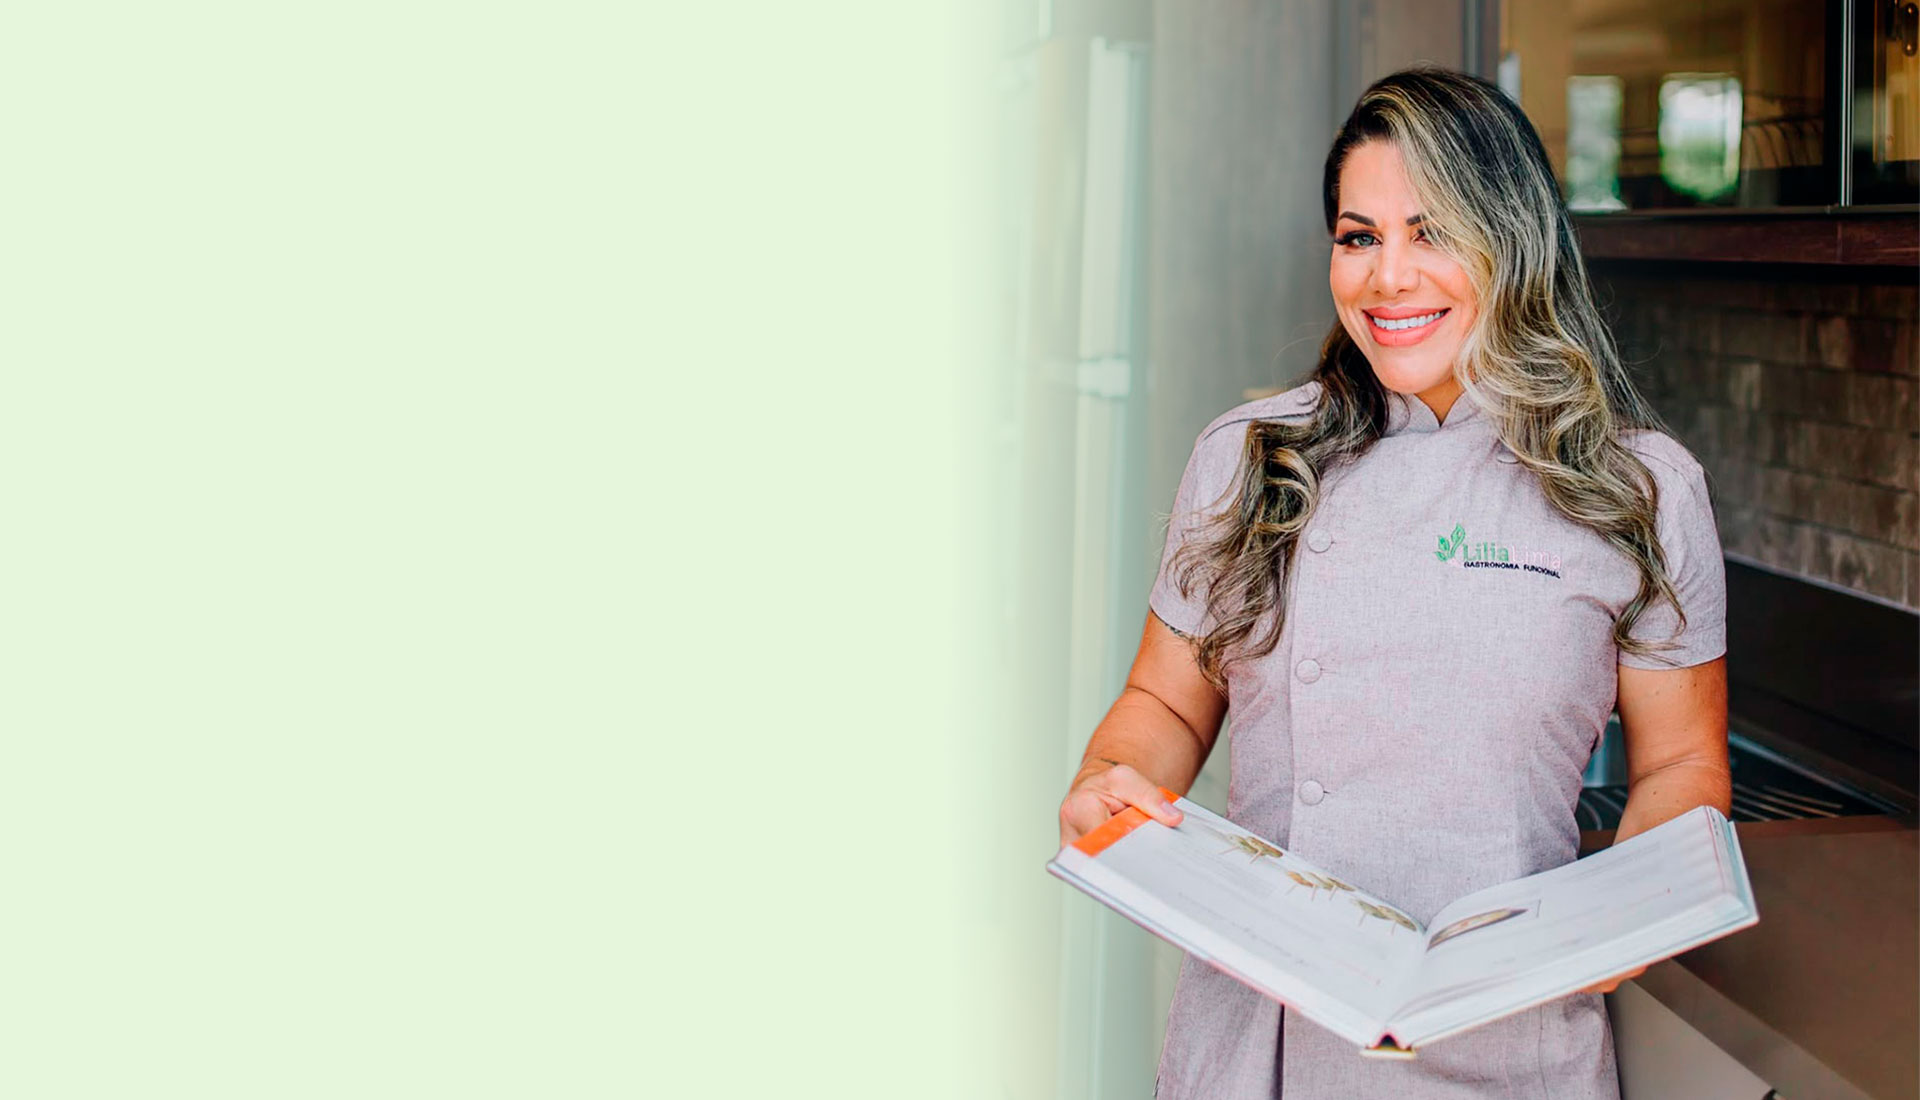
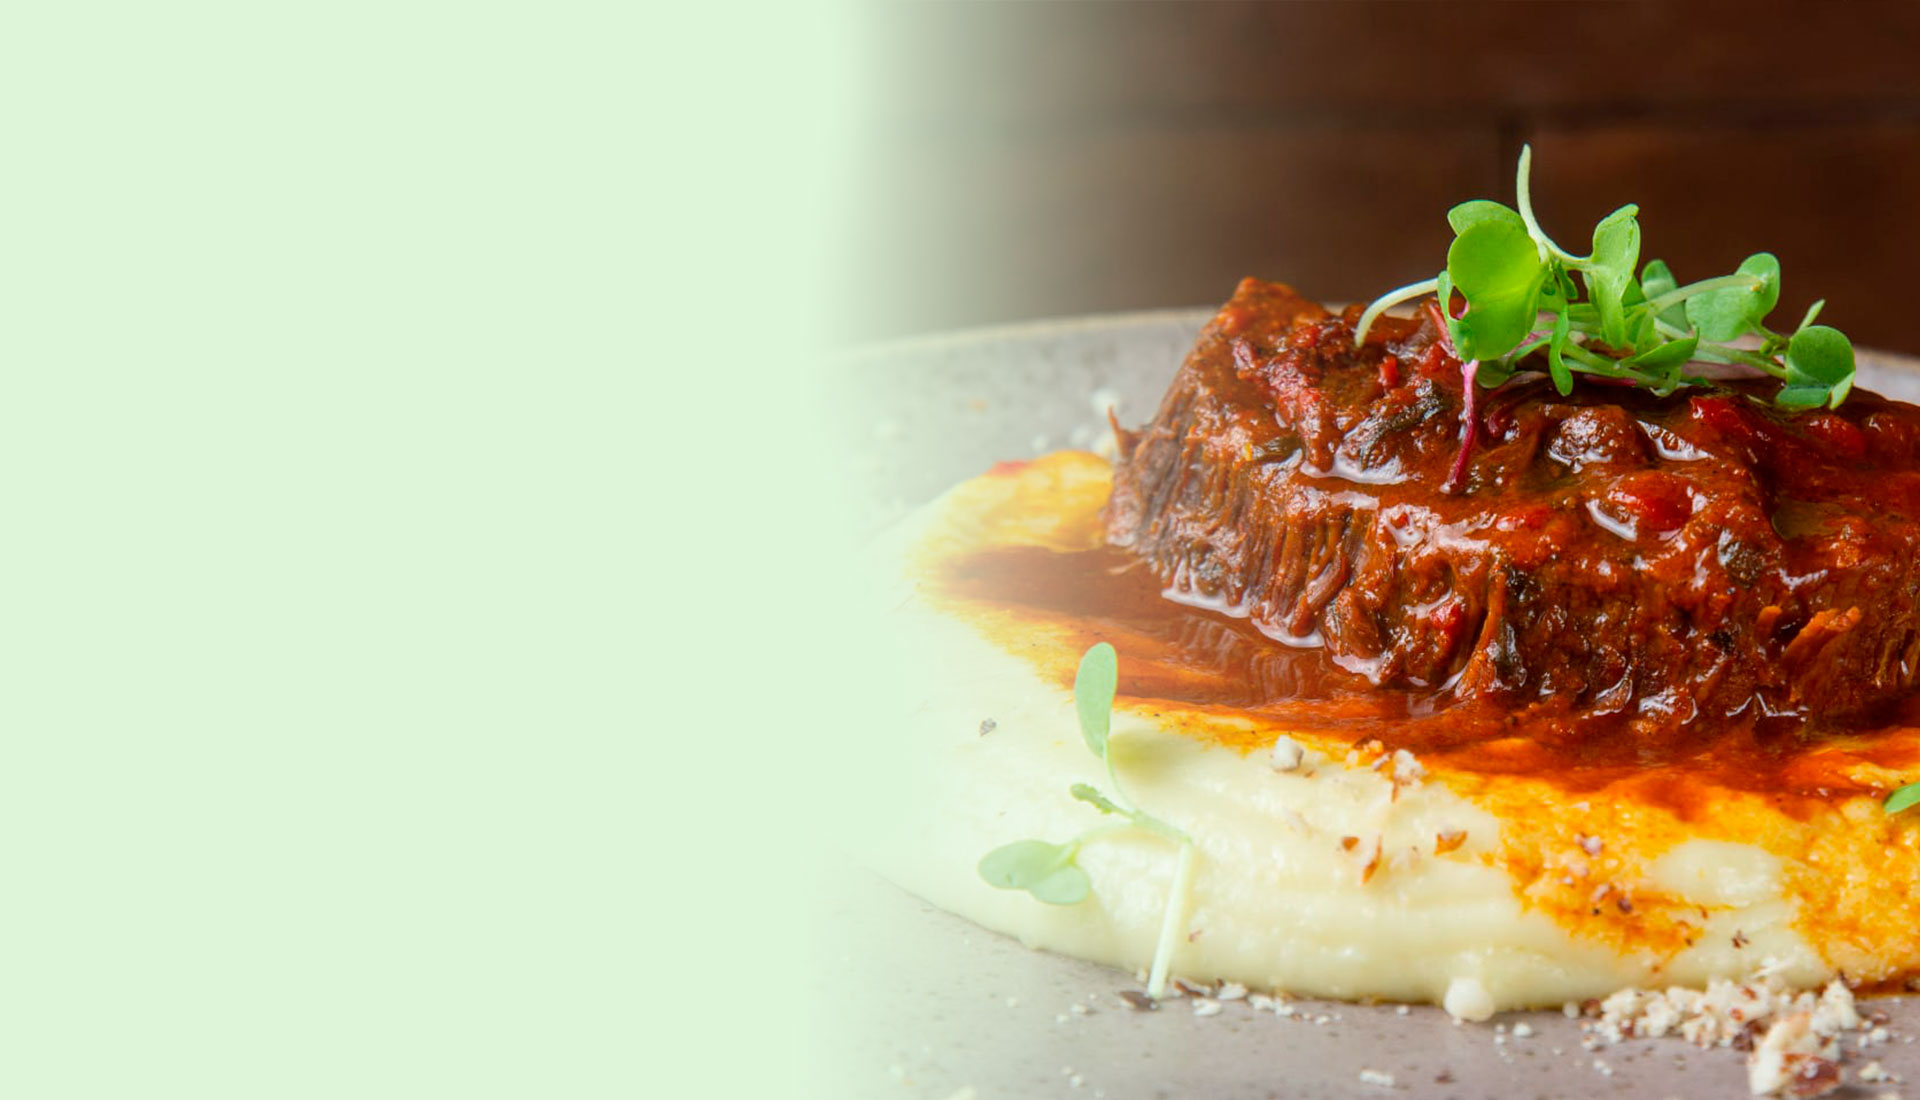
Atualizações

diff --git a/index.html b/index.html
@@ -139,23 +139,31 @@
       </p>
     </div>
 
-    <div class="vip-videos-row">
-      <div class="vip-video-col">
-        <video src="img/whatsapp/Camila Barros.mp4" controls playsinline></video>
-        <span class="vip-video-name">Camila Barros</span>
+    <div class="vip-videos-carousel">
+      <button class="carousel-arrow vip-video-prev" onclick="moveVipVideoCarousel(-1)" aria-label="Anterior">‹</button>
+
+      <div class="vip-videos-viewport">
+        <div class="vip-videos-track" id="vip-video-track">
+          <div class="vip-video-slide">
+            <video src="img/whatsapp/Camila Barros.mp4" controls playsinline></video>
+            <span class="vip-video-name">Camila Barros</span>
+          </div>
+          <div class="vip-video-slide">
+            <video src="img/whatsapp/Filipe ret e Agatha Sá.mp4" controls playsinline></video>
+            <span class="vip-video-name">Filipe Ret e Agatha Sá</span>
+          </div>
+          <div class="vip-video-slide">
+            <video src="img/whatsapp/Leda Nagle.mp4" controls playsinline></video>
+            <span class="vip-video-name">Leda Nagle</span>
+          </div>
+          <div class="vip-video-slide">
+            <video src="img/whatsapp/Viviane Araujo.mp4" controls playsinline></video>
+            <span class="vip-video-name">Viviane Araújo</span>
+          </div>
+        </div>
       </div>
-      <div class="vip-video-col">
-        <video src="img/whatsapp/Filipe ret e Agatha Sá.mp4" controls playsinline></video>
-        <span class="vip-video-name">Filipe Ret e Agatha Sá</span>
-      </div>
-      <div class="vip-video-col">
-        <video src="img/whatsapp/Leda Nagle.mp4" controls playsinline></video>
-        <span class="vip-video-name">Leda Nagle</span>
-      </div>
-      <div class="vip-video-col">
-        <video src="img/whatsapp/Viviane Araujo.mp4" controls playsinline></video>
-        <span class="vip-video-name">Viviane Araújo</span>
-      </div>
+
+      <button class="carousel-arrow vip-video-next" onclick="moveVipVideoCarousel(1)" aria-label="Próximo">›</button>
     </div>
   </section>
 

diff --git a/style.css b/style.css
@@ -514,25 +514,34 @@ body {
   padding: 80px 24px;
 }
 
-.vip-videos-row {
+.vip-videos-carousel {
   max-width: 1100px;
   margin: 60px auto 0;
-  display: grid;
-  grid-template-columns: repeat(auto-fit, minmax(160px, 1fr));
-  gap: 24px;
-  justify-items: center;
+  display: flex;
+  align-items: center;
+  gap: 16px;
 }
 
-.vip-video-col {
+.vip-videos-viewport {
+  flex: 1;
+  overflow: hidden;
+}
+
+.vip-videos-track {
+  display: flex;
+  transition: transform 0.5s ease;
+}
+
+.vip-video-slide {
+  flex: 0 0 calc(33.333% - 11px);
+  margin-right: 16px;
   display: flex;
   flex-direction: column;
   align-items: center;
   gap: 10px;
-  width: 100%;
-  max-width: 200px;
 }
 
-.vip-video-col video {
+.vip-video-slide video {
   width: 100%;
   aspect-ratio: 9 / 16;
   object-fit: cover;
@@ -558,14 +567,11 @@ body {
   .vip-videos {
     padding: 45px 20px;
   }
-  .vip-videos-row {
-    grid-template-columns: 1fr;
-    max-width: 320px;
-    margin: 0 auto;
-    gap: 28px;
+  .vip-videos-carousel {
+    gap: 10px;
   }
-  .vip-video-col {
-    max-width: 280px;
+  .vip-video-slide {
+    flex: 0 0 calc(100% - 16px);
   }
 }
 /* ===== SEÇÃO: 3 USOS DO E-BOOK ===== */

diff --git a/script.js b/script.js
@@ -90,6 +90,37 @@ document.addEventListener('DOMContentLoaded', function () {
   resetAutoplay();
 });
 
+// ===== CARROSSEL DE VÍDEOS VIP (sem autoplay) =====
+let vipVideoIndex = 0;
+const totalVipVideoSlides = 4;
+let vipVideoVisibleSlides = window.innerWidth <= 768 ? 1 : 3;
+
+function updateVipVideoCarousel() {
+  const track = document.getElementById('vip-video-track');
+  if (!track) return;
+  const slideWidth = 100 / vipVideoVisibleSlides;
+  track.style.transform = `translateX(-${vipVideoIndex * slideWidth}%)`;
+}
+
+function moveVipVideoCarousel(direction) {
+  const maxIndex = Math.max(totalVipVideoSlides - vipVideoVisibleSlides, 0);
+  vipVideoIndex += direction;
+
+  if (vipVideoIndex > maxIndex) vipVideoIndex = 0;
+  if (vipVideoIndex < 0) vipVideoIndex = maxIndex;
+
+  updateVipVideoCarousel();
+}
+
+window.addEventListener('resize', function () {
+  vipVideoVisibleSlides = window.innerWidth <= 768 ? 1 : 3;
+  vipVideoIndex = 0;
+  updateVipVideoCarousel();
+});
+
+document.addEventListener('DOMContentLoaded', function () {
+  updateVipVideoCarousel();
+});
 
 // ===== FAQ ACCORDION =====
 function toggleFaq(button) {
